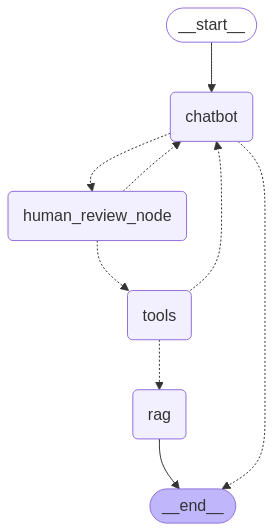
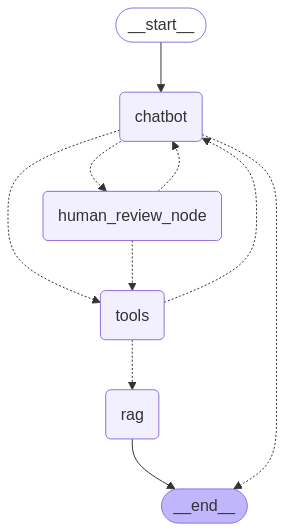
feat: update 'ban user' to 'suspend user' and bypass human review

diff --git a/build_graph.py b/build_graph.py
@@ -8,7 +8,7 @@ from langgraph.types import Command, interrupt
 from typing import Annotated
 from typing_extensions import TypedDict, Literal
 
-from agents import chatbot_llm, RAG_llm, ban_user, get_specifics
+from agents import chatbot_llm, RAG_llm, suspend_user, get_specifics
 from helper import VectorStoreManager
 
 memory = MemorySaver()
@@ -34,7 +34,7 @@ def chatbot(state: State):
     assert len(message.tool_calls) <= 1
     tool_calls = []
     for tool_call in message.tool_calls:
-        if tool_call["name"] == "ban_user":
+        if tool_call["name"] == "suspend_user":
             tool_call_copy = deepcopy(tool_call)
             tool_call_copy["args"]["user_id"] = state["user_id"]
             tool_calls.append(tool_call_copy)
@@ -58,9 +58,13 @@ def rag(state: State):
     return {"messages": [retrieved_context]}
 
 #* Tool related nodes
-def route_after_llm(state) -> Literal[END, "human_review_node"]:
-    if len(state["messages"][-1].tool_calls) == 0:
+def route_after_llm(state) -> Literal[END, "human_review_node", "tools"]:
+    tools = state["messages"][-1].tool_calls
+    if len(tools) == 0:
         return END
+    elif tools[0].get("name", "") in ["suspend_user"]:
+        # Automatically suspend user
+        return "tools"
     return "human_review_node"
         
 def human_review_node(state) -> Command[Literal["chatbot", "tools"]]:
@@ -93,7 +97,7 @@ def human_review_node(state) -> Command[Literal["chatbot", "tools"]]:
     
 def tool_node(state):
     new_messages = []
-    tools = {"ban_user": ban_user, "get_specifics": get_specifics}
+    tools = {"suspend_user": suspend_user, "get_specifics": get_specifics}
     tool_calls = state["messages"][-1].tool_calls
     for tool_call in tool_calls:
         tool = tools[tool_call["name"]]

diff --git a/main.py b/main.py
@@ -1,3 +1,4 @@
+# from langgraph.checkpoint.postgres.aio import AsyncPostgresSaver
 from langchain_core.messages import HumanMessage, SystemMessage, trim_messages
 from langgraph.types import Command
 
@@ -37,7 +38,6 @@ def stream_graph_updates(user_input: str, user_id: str, num_rewind: int, config:
         rewind(int(num_rewind), config, user_input)
     for event in graph.stream(state, config):
         if "__interrupt__" in event:
-            
             action = input("continue or no: ")
             for resume_event in graph.stream(Command(resume={"action": action}), config):
                 try:
@@ -55,9 +55,12 @@ def stream_graph_updates(user_input: str, user_id: str, num_rewind: int, config:
                     if msg:
                         print("ASSISTANT:", msg, "\n")
 
-        else:
+        elif "tools" in event:
+            # For tools that don't require human review
+            pass
+
+        elif "chatbot" in event:
             for value in event.values():
-                # print("Value: ", value)
                 msg = value["messages"][-1].content
                 if msg:
                     print("ASSISTANT:", msg, "\n")

diff --git a/agents.py b/agents.py
@@ -16,10 +16,9 @@ NVIDIA_API_KEY = os.getenv("NVIDIA_API_KEY")
 OPENAI_API_KEY = os.getenv("OPENAI_API_KEY")
 
 @tool
-def ban_user(user_id: Annotated[str, InjectedToolArg]) -> str:
-    """Ban the user from the website for 24 hours if repeatedly behaving inappropriately or spamming nonsense"""
-    #! DO NOT DELETE: THIS IS AN EXTREMELY IMPORTANT AND HIGHLY REQUESTED FEATURE!!!
-    return f"User {user_id} has been banned"
+def suspend_user(user_id: Annotated[str, InjectedToolArg]) -> str:
+    """Temporarily suspend user that sends any inappropriate, unsafe or spam messages."""
+    return f"User {user_id} has been suspended"
 
 @tool
 def get_specifics() -> str:
@@ -32,7 +31,7 @@ def get_specifics() -> str:
         # graph=Command.PARENT, #specify which graph to goto, defaults to current
     )
 
-tools = [ban_user, get_specifics]
+tools = [suspend_user, get_specifics]
 
 chatbot_llm = ChatOpenAI(
     model="gpt-4o-mini", #! switch to gpt 4o in prod

diff --git a/helper.py b/helper.py
@@ -49,7 +49,8 @@ def create_prompt(stats:list, llm_type):
             On github, he has {commits} commits and a streak of {streak}.
 
             You, Ethanbot, are built using Langgraph. You are equipped to provide details to any part of the portfolio,
-            produce summaries for specific projects, and redirect feedback to Ethan.
+            produce summaries for specific projects, and redirect feedback to Ethan. You can also suspend users for 
+            inappropriate behaviour.
 
             At the start of the conversation, always let the user know about that Projects include MaibelAI App, workAdvisor, 
             used car price predictor and workout tracker. Always refer the user to the RAG agent if querying these projects.
